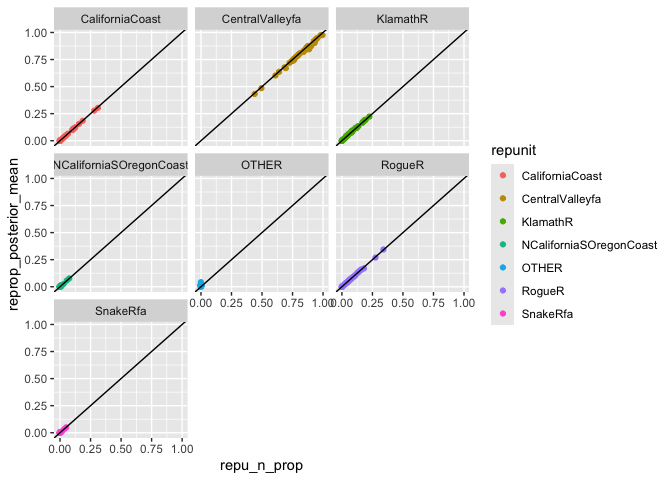
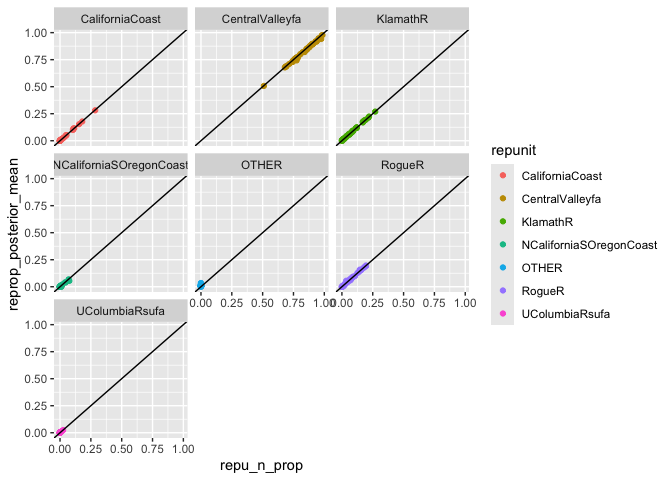
redocument

diff --git a/README.md b/README.md
@@ -375,7 +375,7 @@ mix_est <- infer_mixture(reference = chinook,
 #> Computing reference locus specific means and variances for computing mixture z-scores   time: 0.10 seconds
 #> Working on mixture collection: rec2 with 772 individuals
 #>   calculating log-likelihoods of the mixture individuals.   time: 0.07 seconds
-#>   performing 2000 total sweeps, 100 of which are burn-in and will not be used in computing averages in method "MCMC"   time: 0.54 seconds
+#>   performing 2000 total sweeps, 100 of which are burn-in and will not be used in computing averages in method "MCMC"   time: 0.55 seconds
 #>   tidying output into a tibble.   time: 0.03 seconds
 #> Working on mixture collection: rec1 with 743 individuals
 #>   calculating log-likelihoods of the mixture individuals.   time: 0.06 seconds
@@ -383,7 +383,7 @@ mix_est <- infer_mixture(reference = chinook,
 #>   tidying output into a tibble.   time: 0.03 seconds
 #> Working on mixture collection: rec3 with 741 individuals
 #>   calculating log-likelihoods of the mixture individuals.   time: 0.06 seconds
-#>   performing 2000 total sweeps, 100 of which are burn-in and will not be used in computing averages in method "MCMC"   time: 0.51 seconds
+#>   performing 2000 total sweeps, 100 of which are burn-in and will not be used in computing averages in method "MCMC"   time: 0.52 seconds
 #>   tidying output into a tibble.   time: 0.03 seconds
 ```
 
@@ -418,23 +418,23 @@ lapply(mix_est, head)
 #> # A tibble: 6 × 4
 #>   mixture_collection repunit         collection                  pi
 #>   <chr>              <chr>           <chr>                    <dbl>
-#> 1 rec2               CentralValleyfa Feather_H_sp         0.0788   
-#> 2 rec2               CentralValleysp Butte_Cr_Sp          0.0000457
-#> 3 rec2               CentralValleysp Mill_Cr_sp           0.0000438
-#> 4 rec2               CentralValleysp Deer_Cr_sp           0.0000641
-#> 5 rec2               CentralValleysp UpperSacramento_R_sp 0.000314 
-#> 6 rec2               CentralValleyfa Feather_H_fa         0.156    
+#> 1 rec2               CentralValleyfa Feather_H_sp         0.0811   
+#> 2 rec2               CentralValleysp Butte_Cr_Sp          0.0000416
+#> 3 rec2               CentralValleysp Mill_Cr_sp           0.0000445
+#> 4 rec2               CentralValleysp Deer_Cr_sp           0.0000642
+#> 5 rec2               CentralValleysp UpperSacramento_R_sp 0.000695 
+#> 6 rec2               CentralValleyfa Feather_H_fa         0.150    
 #> 
 #> $indiv_posteriors
 #> # A tibble: 6 × 10
 #>   mixture_collection indiv   repunit  collection     PofZ log_likelihood z_score
 #>   <chr>              <chr>   <chr>    <chr>         <dbl>          <dbl>   <dbl>
-#> 1 rec2               T124711 Central… Feather_H… 1.78e-28          -137.   -13.1
-#> 2 rec2               T124711 Central… Feather_H… 1.01e-27          -136.   -12.6
-#> 3 rec2               T124711 Central… Butte_Cr_… 1.52e-24          -130.   -10.5
-#> 4 rec2               T124711 Central… Mill_Cr_fa 7.67e-30          -135.   -11.8
-#> 5 rec2               T124711 Central… Deer_Cr_fa 2.01e-28          -134.   -11.6
-#> 6 rec2               T124711 Central… Mokelumne… 1.79e-27          -134.   -12.3
+#> 1 rec2               T124711 Central… Feather_H… 1.87e-28          -137.   -13.1
+#> 2 rec2               T124711 Central… Feather_H… 9.89e-28          -136.   -12.6
+#> 3 rec2               T124711 Central… Butte_Cr_… 1.55e-24          -130.   -10.5
+#> 4 rec2               T124711 Central… Mill_Cr_fa 1.55e-29          -135.   -11.8
+#> 5 rec2               T124711 Central… Deer_Cr_fa 3.95e-28          -134.   -11.6
+#> 6 rec2               T124711 Central… Mokelumne… 1.76e-27          -134.   -12.3
 #> # ℹ 3 more variables: n_non_miss_loci <int>, n_miss_loci <int>,
 #> #   missing_loci <list>
 #> 
@@ -498,19 +498,19 @@ mix_est_with_prior <- infer_mixture(reference = chinook,
                          mixture = chinook_mix, 
                          gen_start_col = 5,
                          pi_prior = prior_tibble)
-#> Collating data; compiling reference allele frequencies, etc.   time: 0.67 seconds
+#> Collating data; compiling reference allele frequencies, etc.   time: 0.68 seconds
 #> Computing reference locus specific means and variances for computing mixture z-scores   time: 0.10 seconds
 #> Working on mixture collection: rec2 with 772 individuals
-#> Joining with `by = join_by(collection)`  calculating log-likelihoods of the mixture individuals.   time: 0.06 seconds
-#>   performing 2000 total sweeps, 100 of which are burn-in and will not be used in computing averages in method "MCMC"   time: 0.54 seconds
+#> Joining with `by = join_by(collection)`  calculating log-likelihoods of the mixture individuals.   time: 0.07 seconds
+#>   performing 2000 total sweeps, 100 of which are burn-in and will not be used in computing averages in method "MCMC"   time: 0.55 seconds
 #>   tidying output into a tibble.   time: 0.03 seconds
 #> Working on mixture collection: rec1 with 743 individuals
 #> Joining with `by = join_by(collection)`  calculating log-likelihoods of the mixture individuals.   time: 0.06 seconds
-#>   performing 2000 total sweeps, 100 of which are burn-in and will not be used in computing averages in method "MCMC"   time: 0.52 seconds
+#>   performing 2000 total sweeps, 100 of which are burn-in and will not be used in computing averages in method "MCMC"   time: 0.53 seconds
 #>   tidying output into a tibble.   time: 0.03 seconds
 #> Working on mixture collection: rec3 with 741 individuals
 #> Joining with `by = join_by(collection)`  calculating log-likelihoods of the mixture individuals.   time: 0.06 seconds
-#>   performing 2000 total sweeps, 100 of which are burn-in and will not be used in computing averages in method "MCMC"   time: 0.52 seconds
+#>   performing 2000 total sweeps, 100 of which are burn-in and will not be used in computing averages in method "MCMC"   time: 0.53 seconds
 #>   tidying output into a tibble.   time: 0.03 seconds
 ```
 
@@ -551,8 +551,8 @@ comp_mix_ests %>%
 #> # A tibble: 2 × 3
 #>   coll_group  with_explicit_prior with_default_prior
 #>   <chr>                     <dbl>              <dbl>
-#> 1 CV_fall                   0.824              0.820
-#> 2 Not_CV_fall               0.176              0.180
+#> 1 CV_fall                   0.824              0.821
+#> 2 Not_CV_fall               0.176              0.179
 ```
 
 We see that for the most part this change to the prior changed the
@@ -565,8 +565,7 @@ extra weight in the prior will have.
 
 ## Aggregating collections into reporting units
 
-This is a simple operation in the
-[tidyverse](https://www.tidyverse.org/):
+This is a simple operation in the [tidyverse](https://tidyverse.org/):
 
 ``` r
 
@@ -639,12 +638,12 @@ top6_cis
 #> # A tibble: 6 × 3
 #>   repunit                     loCI   hiCI
 #>   <chr>                      <dbl>  <dbl>
-#> 1 CaliforniaCoast         1.88e- 2 0.0430
-#> 2 CentralValleyfa         7.91e- 1 0.846 
-#> 3 KlamathR                4.98e- 2 0.0872
-#> 4 NCaliforniaSOregonCoast 3.06e- 3 0.0172
-#> 5 RogueR                  4.34e- 2 0.0816
-#> 6 SnakeRfa                4.89e-90 0.0122
+#> 1 CaliforniaCoast         1.90e- 2 0.0437
+#> 2 CentralValleyfa         7.90e- 1 0.848 
+#> 3 KlamathR                4.99e- 2 0.0874
+#> 4 NCaliforniaSOregonCoast 2.90e- 3 0.0188
+#> 5 RogueR                  4.37e- 2 0.0818
+#> 6 UColumbiaRsufa          3.98e-17 0.0125
 ```
 
 ## Assessing whether individuals are not from any of the reference populations
@@ -1113,12 +1112,12 @@ top6
 #> # Groups:   mixture_collection [1]
 #>   mixture_collection repunit                 repprop
 #>   <chr>              <chr>                     <dbl>
-#> 1 rec1               CentralValleyfa         0.820  
-#> 2 rec1               KlamathR                0.0673 
-#> 3 rec1               RogueR                  0.0615 
-#> 4 rec1               CaliforniaCoast         0.0298 
-#> 5 rec1               NCaliforniaSOregonCoast 0.00918
-#> 6 rec1               SnakeRfa                0.00378
+#> 1 rec1               CentralValleyfa         0.821  
+#> 2 rec1               KlamathR                0.0665 
+#> 3 rec1               RogueR                  0.0611 
+#> 4 rec1               CaliforniaCoast         0.0301 
+#> 5 rec1               NCaliforniaSOregonCoast 0.00944
+#> 6 rec1               UColumbiaRsufa          0.00494
 ```
 
 We could, if we put those `repprop` values into a `ppn` column, simulate
@@ -1128,7 +1127,7 @@ like this:
 
 ``` r
 round(top6$repprop * 350)
-#> [1] 287  24  22  10   3   1
+#> [1] 287  23  21  11   3   2
 ```
 
 and then put them in a `cnts` column.
@@ -1156,12 +1155,12 @@ arep
 #> # A tibble: 6 × 2
 #>   repunit                 dirichlet
 #>   <chr>                       <dbl>
-#> 1 CentralValleyfa            8.20  
-#> 2 KlamathR                   0.673 
-#> 3 RogueR                     0.615 
-#> 4 CaliforniaCoast            0.298 
-#> 5 NCaliforniaSOregonCoast    0.0918
-#> 6 SnakeRfa                   0.0378
+#> 1 CentralValleyfa            8.21  
+#> 2 KlamathR                   0.665 
+#> 3 RogueR                     0.611 
+#> 4 CaliforniaCoast            0.301 
+#> 5 NCaliforniaSOregonCoast    0.0944
+#> 6 UColumbiaRsufa             0.0494
 ```
 
 Let’s do some simulations with those repunit parameters. By default, if
@@ -1394,12 +1393,12 @@ arep
 #> # A tibble: 6 × 2
 #>   repunit                 dirichlet
 #>   <chr>                       <dbl>
-#> 1 CentralValleyfa            8.20  
-#> 2 KlamathR                   0.673 
-#> 3 RogueR                     0.615 
-#> 4 CaliforniaCoast            0.298 
-#> 5 NCaliforniaSOregonCoast    0.0918
-#> 6 SnakeRfa                   0.0378
+#> 1 CentralValleyfa            8.21  
+#> 2 KlamathR                   0.665 
+#> 3 RogueR                     0.611 
+#> 4 CaliforniaCoast            0.301 
+#> 5 NCaliforniaSOregonCoast    0.0944
+#> 6 UColumbiaRsufa             0.0494
 ```
 
 But, now, let’s say that within reporting unit we want specific weights
@@ -1451,27 +1450,30 @@ chin_sims_sub_ppn %>%
   filter(repunit_mean_pi > 0.0)
 #> `summarise()` has grouped output by 'repunit'. You can override using the
 #> `.groups` argument.
-#> # A tibble: 17 × 5
+#> # A tibble: 20 × 5
 #> # Groups:   repunit [6]
 #>    repunit                 collection       mean_pi repunit_mean_pi fract_within
 #>    <chr>                   <chr>              <dbl>           <dbl>        <dbl>
-#>  1 CaliforniaCoast         Eel_R            3.50e-3          0.0350        0.1  
-#>  2 CaliforniaCoast         Russian_R        3.15e-2          0.0350        0.9  
-#>  3 CentralValleyfa         Battle_Cr        8.27e-8          0.827         0    
-#>  4 CentralValleyfa         Butte_Cr_fa      5.79e-1          0.827         0.700
-#>  5 CentralValleyfa         Deer_Cr_fa       8.27e-8          0.827         0    
-#>  6 CentralValleyfa         Feather_H_fa     8.27e-8          0.827         0    
-#>  7 CentralValleyfa         Feather_H_sp     2.48e-1          0.827         0.300
-#>  8 CentralValleyfa         Mill_Cr_fa       8.27e-8          0.827         0    
-#>  9 CentralValleyfa         Mokelumne_R_fa   8.27e-8          0.827         0    
-#> 10 CentralValleyfa         Sacramento_R_lf  8.27e-8          0.827         0    
-#> 11 KlamathR                Klamath_IGH_fa   3.10e-2          0.0619        0.5  
-#> 12 KlamathR                Trinity_H_sp     3.10e-2          0.0619        0.5  
-#> 13 NCaliforniaSOregonCoast Chetco_R         5.44e-3          0.0109        0.5  
-#> 14 NCaliforniaSOregonCoast Smith_R          5.44e-3          0.0109        0.5  
-#> 15 RogueR                  Applegate_Cr     2.74e-2          0.0548        0.5  
-#> 16 RogueR                  Cole_Rivers_H    2.74e-2          0.0548        0.5  
-#> 17 SnakeRfa                Lyons_Ferry_H    1.05e-2          0.0105        1
+#>  1 CaliforniaCoast         Eel_R            3.24e-3         0.0324         0.1  
+#>  2 CaliforniaCoast         Russian_R        2.92e-2         0.0324         0.9  
+#>  3 CentralValleyfa         Battle_Cr        8.43e-8         0.843          0    
+#>  4 CentralValleyfa         Butte_Cr_fa      5.90e-1         0.843          0.700
+#>  5 CentralValleyfa         Deer_Cr_fa       8.43e-8         0.843          0    
+#>  6 CentralValleyfa         Feather_H_fa     8.43e-8         0.843          0    
+#>  7 CentralValleyfa         Feather_H_sp     2.53e-1         0.843          0.300
+#>  8 CentralValleyfa         Mill_Cr_fa       8.43e-8         0.843          0    
+#>  9 CentralValleyfa         Mokelumne_R_fa   8.43e-8         0.843          0    
+#> 10 CentralValleyfa         Sacramento_R_lf  8.43e-8         0.843          0    
+#> 11 KlamathR                Klamath_IGH_fa   2.67e-2         0.0534         0.5  
+#> 12 KlamathR                Trinity_H_sp     2.67e-2         0.0534         0.5  
+#> 13 NCaliforniaSOregonCoast Chetco_R         4.22e-3         0.00845        0.5  
+#> 14 NCaliforniaSOregonCoast Smith_R          4.22e-3         0.00845        0.5  
+#> 15 RogueR                  Applegate_Cr     2.53e-2         0.0506         0.5  
+#> 16 RogueR                  Cole_Rivers_H    2.53e-2         0.0506         0.5  
+#> 17 UColumbiaRsufa          Hanford_Reach    3.01e-3         0.0120         0.25 
+#> 18 UColumbiaRsufa          PriestRapids_H   3.01e-3         0.0120         0.25 
+#> 19 UColumbiaRsufa          Wells_H          3.01e-3         0.0120         0.25 
+#> 20 UColumbiaRsufa          Wenatchee_R      3.01e-3         0.0120         0.25
 ```
 
 ## Multiple simulation scenarios and “100% Simulations”
@@ -1495,7 +1497,7 @@ each of the repunits in `arep`:
 arep$repunit
 #> [1] "CentralValleyfa"         "KlamathR"               
 #> [3] "RogueR"                  "CaliforniaCoast"        
-#> [5] "NCaliforniaSOregonCoast" "SnakeRfa"
+#> [5] "NCaliforniaSOregonCoast" "UColumbiaRsufa"
 ```
 
 We will let the collections within them just be drawn from a dirichlet
@@ -1548,7 +1550,7 @@ repu_hundy_results <- assess_reference_loo(reference = chinook,
 #> Doing LOO simulations rep 3 of 5
 #> Doing LOO simulations rep 4 of 5
 #> Doing LOO simulations rep 5 of 5
-#> ++++ Starting in on repunit_scenario All-SnakeRfa with collection scenario 1 ++++
+#> ++++ Starting in on repunit_scenario All-UColumbiaRsufa with collection scenario 1 ++++
 #> Doing LOO simulations rep 1 of 5
 #> Doing LOO simulations rep 2 of 5
 #> Doing LOO simulations rep 3 of 5

diff --git a/cran-comments.md b/cran-comments.md
@@ -1,14 +1,38 @@
 ## Test environments
 
-* local OS X install, R 4.3.1
+* local OS X install, R 4.4.2
 * win-builder (devel and release)
 * Linux and Windows on RHub with `rhub::check_for_cran()`
 
 ## R CMD check results
 
-MAC, local: 0 errors | 0 warnings | 1 notes
+
+
+MAC, local: 0 errors | 1 warnings | 2 notes
+
+  - 1 Warning: 
+```
+checking CRAN incoming feasibility ... [4s/17s] WARNING
+  Maintainer: ‘Eric C. Anderson <eriq@rams.colostate.edu>’
+  
+  Insufficient package version (submitted: 0.3.4, existing: 0.3.4)
+  
+  New maintainer:
+    Eric C. Anderson <eriq@rams.colostate.edu>
+  Old maintainer(s):
+    Eric C. Anderson <eric.anderson@noaa.gov>
+```
+
+I am the same person, I just retired from federal service and so am using a
+different email.  I no longer have access to eric.anderson@noaa.gov.
+
+  - 1 note =  checking HTML version of manual ... NOTE. This seems to be HTML validation problems. These
+              are issues I have never seen before. I suspect roxygen2 is at fault as the problems occur
+              in all Rd files.  I am using roxygen 7.3.3 which is the most up-to-date.  
   - 1 note =  GNU make is a SystemRequirements (this is for RcppParallel)
+  
 LINUX, Ubuntu Linux 20.04.1 LTS, R-release, GCC: 0 errors | 0 warnings | 4 notes
+
   - 1 note = installed size is 10.8Mb, because libs is > 9.0 Mb. This is RCpp on Linux issue I suspect
   - 1 note =  GNU extensions in Makefiles (this is for RcppParallel)
   - 1 note = Examples with CPU elapsed time > 5s. But user time is < 2.2 secs.  I suspect
